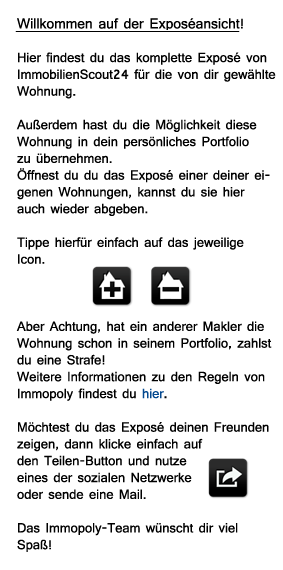
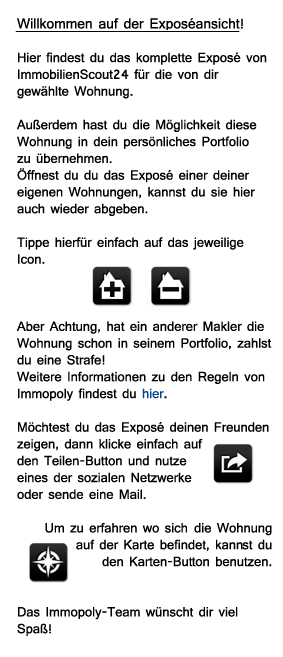
Hilfetext Anpassung

diff --git a/ImmopolyIPhone/ImmopolyIPhone/AbstractViewController.m b/ImmopolyIPhone/ImmopolyIPhone/AbstractViewController.m
@@ -134,7 +134,7 @@
             
         case INFO_EXPOSE:
             helperTextImage = [[UIImageView alloc]initWithImage:[UIImage imageNamed:@"infotext_expose"]];
-            helperTextImage.frame = CGRectMake(0, 0, 284, 570);    
+            helperTextImage.frame = CGRectMake(0, 0, 284, 657);    
 
             linkButton.frame = CGRectMake(142, 367, 35, 20);
             [helperScroll addSubview:linkButton];
